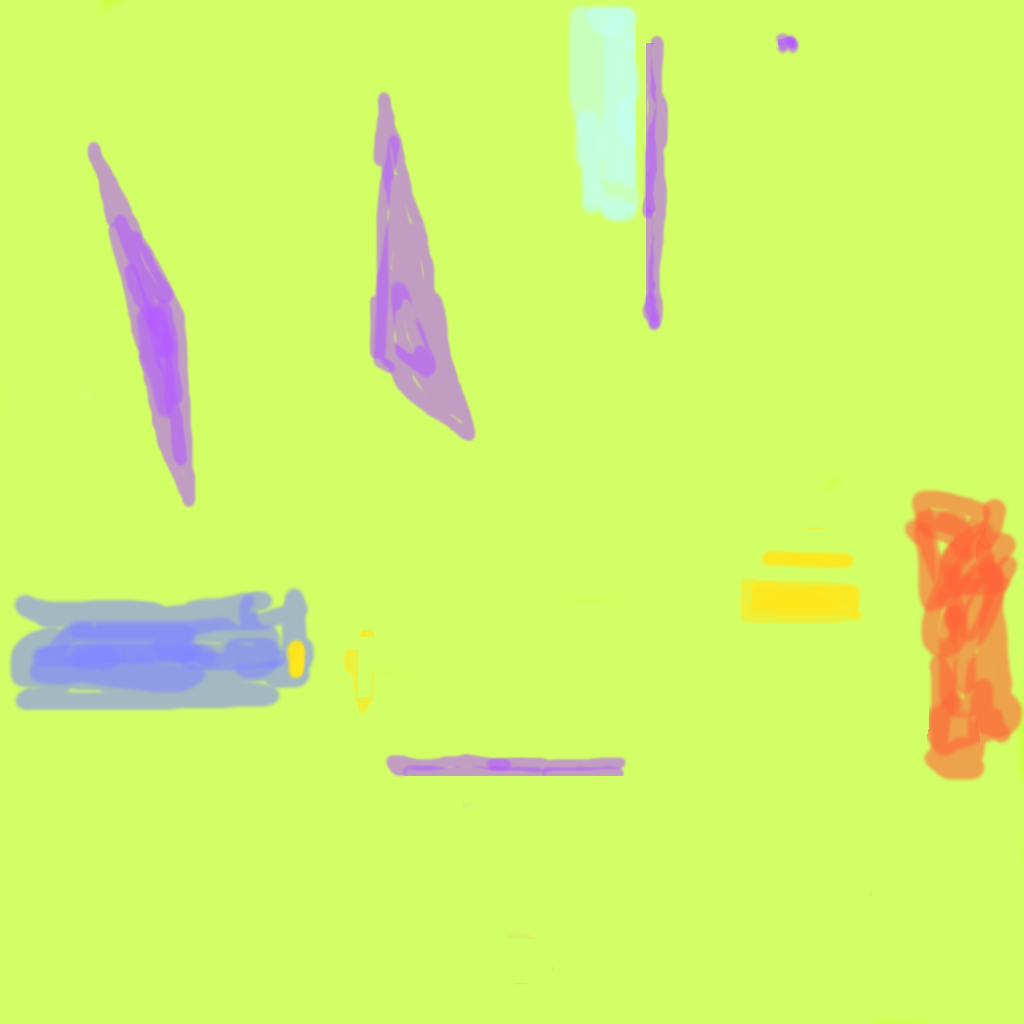
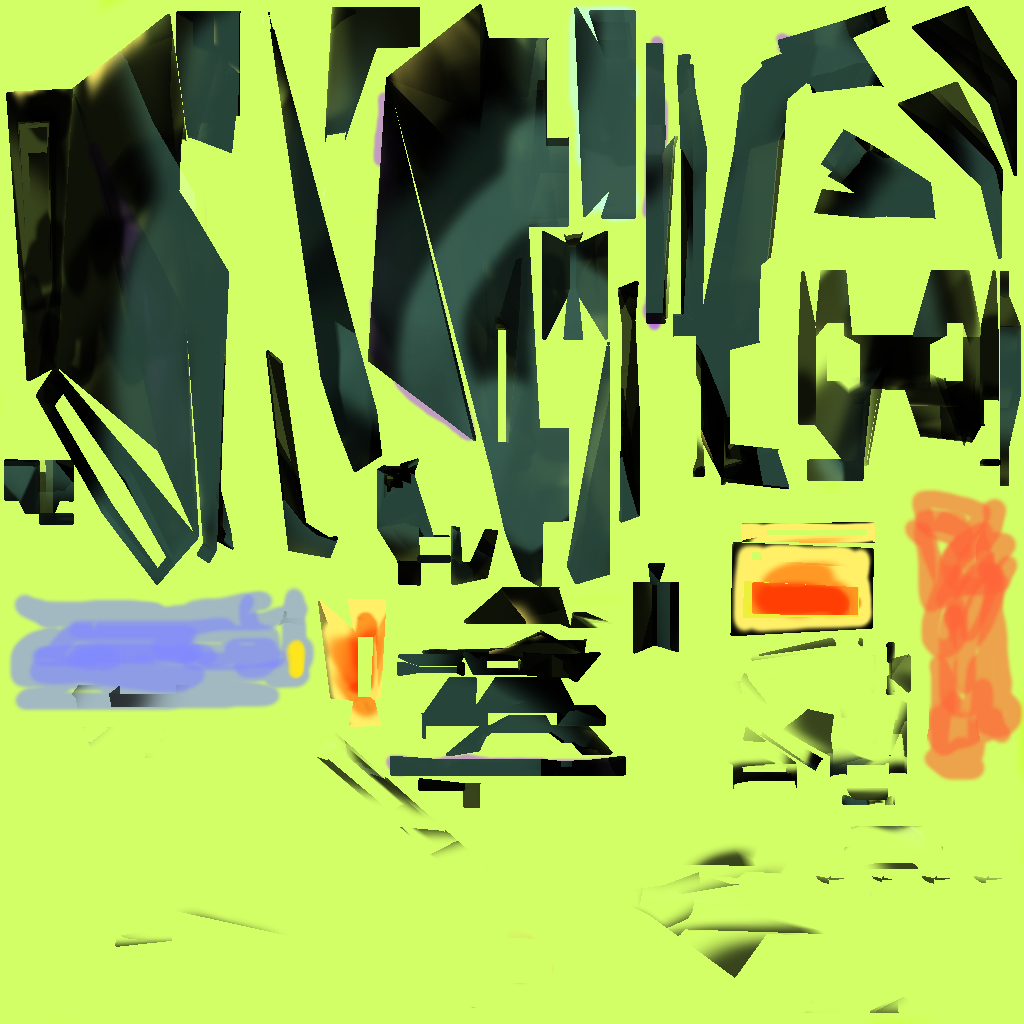
Dynamic orbit segments. Update to asteroid material files. Textured model rendering under way

diff --git a/Resources/ResourceManager.cpp b/Resources/ResourceManager.cpp
@@ -26,6 +26,8 @@ const bool ResourceManager::CreateAllBindables()
 		return false;
 	if (!m_VertexShaderOrbit.Create(m_pDevice, L"VertexShader_Orbit.hlsl"))
 		return false;
+	if (!m_VertexShaderTextured.Create(m_pDevice, L"VertexShader_Textured.hlsl"))
+		return false;
 	//Pixel Shaders:
 	if (!m_PixelShaderMinimal.Create(m_pDevice, L"PixelShader_Minimalistic.hlsl"))
 		return false;
@@ -34,6 +36,8 @@ const bool ResourceManager::CreateAllBindables()
 	if (!m_PixelShaderOrbit.Create(m_pDevice, L"PixelShader_Orbit.hlsl"))
 		return false;
 	if (!m_PixelShaderSun.Create(m_pDevice, L"PixelShader_Sun.hlsl"))
+		return false;
+	if (!m_PixelShaderTextured.Create(m_pDevice, L"PixelShader_Textured.hlsl"))
 		return false;
 	//Geometry Shaders:
 
@@ -48,6 +52,8 @@ const bool ResourceManager::CreateAllBindables()
 	if (!m_InputLayoutMinimal.Create(m_pDevice, m_VertexShaderMinimal, LAYOUT_MINIMAL))
 		return false;
 	if (!m_InputLayoutSinglePoint.Create(m_pDevice, m_VertexShaderSkybox, LAYOUT_SINGLEPOINT))
+		return false;
+	if (!m_InputLayoutPlayerModel.Create(m_pDevice, m_VertexShaderTextured, LAYOUT_PLAYER))
 		return false;
 	//Primitive topologies:
 	if (!m_TopologyTriList.Create(D3D11_PRIMITIVE_TOPOLOGY_TRIANGLELIST))
@@ -69,15 +75,20 @@ const bool ResourceManager::CreateAllBindables()
 	if (!m_IndexBufferCube.Create(m_pDevice, D3D11_USAGE::D3D11_USAGE_IMMUTABLE, 0u,
 								  static_cast<UINT>(m_CubeIndices.size() * sizeof(unsigned int)), sizeof(unsigned int), m_CubeIndices.data()))
 		return false;
-	//Arrange:
-	//Minimal:
+	// Arrange:
+	// Minimal:
 	m_BindablesMinimalistic.insert(m_BindablesMinimalistic.end(), { &m_VertexShaderMinimal, &m_PixelShaderMinimal, &m_InputLayoutMinimal, &m_TopologyTriList });
-	//Skybox:
+	// Skybox:
 	m_BindablesSkybox.insert(m_BindablesSkybox.end(), { &m_VertexShaderSkybox, &m_PixelShaderSkybox, &m_InputLayoutSinglePoint, 
 														&m_TopologyTriList, &m_CubeTextureSkybox, &m_SamplerSkybox,
 														&m_VertexBufferCube, &m_IndexBufferCube});
+	// Orbits
 	m_BindablesOrbit.insert(m_BindablesOrbit.end(), { &m_VertexShaderOrbit, &m_PixelShaderOrbit, &m_InputLayoutSinglePoint, &m_TopologyLineStrip });
+	// Sun
 	m_BindablesSun.insert(m_BindablesSun.end(), { &m_VertexShaderMinimal, &m_PixelShaderSun, &m_InputLayoutMinimal, &m_TopologyTriList });
+	//Textured models
+	m_BindablesTextured.insert(m_BindablesTextured.end(), { &m_VertexShaderTextured, &m_PixelShaderTextured, 
+															&m_InputLayoutPlayerModel, &m_TopologyTriList, & m_SamplerSkybox });
 	return true;
 }
 
@@ -194,7 +205,18 @@ void ResourceManager::BindToPipeline(IEvent& event)
 		}
 		break;
 	}
+	case BindID::ID_Textured:
+	{
+		for (auto bindables : m_BindablesTextured)
+		{
+			if (!bindables->IsBound())
+			{
+				bindables->Bind(m_pDeviceContext);
+			}
+		}
+		break;
 	}
+}
 }
 
 void ResourceManager::UpdateDXHandlers(IEvent& event) noexcept

diff --git a/ModelFactory.cpp b/ModelFactory.cpp
@@ -71,16 +71,16 @@ Model* ModelFactory::GetModel(std::string filePath)
 						vtx.texcoord.x = mesh->mTextureCoords[iMesh][i].x;
 						vtx.texcoord.y = mesh->mTextureCoords[iMesh][i].y;
 					}
-					vtx.normal.x = mesh->mVertices[i].x;	// temporary for
-					vtx.normal.y = 0.3f;//mesh->mVertices[i].y;	// vertex color
-					vtx.normal.z = mesh->mVertices[i].z;	// use section below.
+					//vtx.normal.x = mesh->mVertices[i].x;	// temporary for
+					//vtx.normal.y = 0.3f;//mesh->mVertices[i].y;	// vertex color
+					//vtx.normal.z = mesh->mVertices[i].z;	// use section below.
 
-					//if (mesh->HasNormals())
-					//{
-					//	vtx.normal.x = mesh->mNormals[i].x;
-					//	vtx.normal.y = mesh->mNormals[i].y;
-					//	vtx.normal.z = mesh->mNormals[i].z;
-					//}
+					if (mesh->HasNormals())
+					{
+						vtx.normal.x = mesh->mNormals[i].x;
+						vtx.normal.y = mesh->mNormals[i].y;
+						vtx.normal.z = mesh->mNormals[i].z;
+					}
 					if (mesh->HasTangentsAndBitangents())
 					{
 						vtx.tangent.x = mesh->mTangents[i].x;
@@ -91,6 +91,16 @@ Model* ModelFactory::GetModel(std::string filePath)
 						vtx.bitangent.z = mesh->mBitangents[i].z;
 					}
 					vertices.push_back(vtx);
+				}
+
+				aiString texFile;
+				if (scene->mMaterials[mesh->mMaterialIndex]->GetTextureCount(aiTextureType_DIFFUSE) > 0)
+				{
+					scene->mMaterials[mesh->mMaterialIndex]->GetTexture(aiTextureType_DIFFUSE, 0, &texFile);
+					ModelTexture* tex = new ModelTexture();
+					std::string texPath = std::string("models/") + std::string(texFile.C_Str());
+					tex->LoadTexture(m_device, CA2W(texPath.c_str()), 0);
+					model->AddTexture(tex, 0);
 				}
 
 				// Create bounding box
@@ -702,7 +712,7 @@ Model* ModelFactory::GenerateSun(float x, float y, float z, float r) {
 Model* ModelFactory::GenerateOrbit(float major_semi_axis, float minor_semi_axis)
 {
 	std::vector<DirectX::XMFLOAT3> vertices;
-	vertices.resize(60);
+	vertices.resize(static_cast<size_t>(major_semi_axis / 100));
 	std::vector<UINT> indices;
 	float segment = 2 * 3.14159265f / (vertices.size() - 1);
 	for (size_t i = 0; i < vertices.size(); ++i)

diff --git a/Scene.cpp b/Scene.cpp
@@ -81,7 +81,7 @@ bool Scene::init(unsigned int screenWidth, unsigned int screenHeight, Microsoft:
 	this->m_numPlanets = distributionPlanets(generator);
 	std::uniform_int_distribution<int> distributionRadius(100, 500);
 	//World space coordinates
-	std::uniform_int_distribution<int> distributionX(0, 90000);
+	std::uniform_int_distribution<int> distributionX(1000, 70000);
 	std::uniform_int_distribution<int> distributionY(0, 0);
 	std::uniform_int_distribution<int> distributionZ(0, 0);
 	//Needs to be radians
@@ -174,17 +174,23 @@ void Scene::Update() noexcept {
 	using t_clock = std::chrono::high_resolution_clock;
 	std::default_random_engine gen(static_cast<UINT>(t_clock::now().time_since_epoch().count()));
 	std::uniform_real_distribution<float> dist(200.0f, 900.0f);
+	std::uniform_real_distribution<float> adj(0.1f, 10.0f);
 
 	//Update the player and all the game objects.
 	size_t num = m_gameObjects.size() - m_persistentObjEnd;
 	if (m_player.update() &&  num < 30)
 	{
-		//Add an asteroid to the gameObject vector.
+		// Add an asteroid to the gameObject vector.
 		GameObject* ship = m_player.getShip();
-		DirectX::XMFLOAT3 pos = ship->GetCenter() + norm(ship->GetVelocity()) * 3000.0f;
+		DirectX::XMFLOAT3 velocity = norm(ship->GetVelocity());
+		// Start pos in front of spaceship, and randomise it slightly
+		DirectX::XMFLOAT3 pos = ship->GetCenter() + velocity * 3000.0f;
 		pos = pos + DirectX::XMFLOAT3(dist(gen), dist(gen), dist(gen));
+		// Give asteroid a random velocity in the general direction of spaceship
+		//velocity = velocity * DirectX::XMFLOAT3(-adj(gen), -adj(gen), -adj(gen));
+		velocity = DirectX::XMFLOAT3(0.0f, 0.0f, 0.0f);
 		Asteroid* ast = new Asteroid();
-		ast->init(pos, DirectX::XMFLOAT3(0.0f, .0f, 0.0f), ship);
+		ast->init(pos, velocity, ship);
 		m_gameObjects.push_back(ast);
 	}
 

diff --git a/ForwardRenderer.cpp b/ForwardRenderer.cpp
@@ -46,6 +46,8 @@ void ForwardRenderer::BeginFrame()
 		m_pDeviceContext->DrawIndexed((*m_pGameObjects)[i]->getIndexBufferSize(), 0u, 0u);
 	}
 
+	EventBuss::Get().Delegate(ubEvent);
+
 	//Bind orbit:
 	BindIDEvent bindEventOrbit(BindID::ID_Orbit);
 	EventBuss::Get().Delegate(bindEventOrbit);
@@ -56,19 +58,24 @@ void ForwardRenderer::BeginFrame()
 		m_pDeviceContext->DrawIndexed((*m_pGameObjects)[i]->getIndexBufferSize(), 0u, 0u);
 	}
 
+	EventBuss::Get().Delegate(ubEvent);
+
 	//Bind Sun:
 	BindIDEvent bindEventSun(BindID::ID_SUN);
 	EventBuss::Get().Delegate(bindEventSun);
 	//Sun:
-	for (size_t i = m_numPlanets * 2; i < (*m_pGameObjects).size() - 1; ++i) {
-		(*m_pGameObjects)[i]->bindUniques(m_pDeviceContext);
-		m_pDeviceContext->DrawIndexed((*m_pGameObjects)[i]->getIndexBufferSize(), 0u, 0u);
-	}
+	(*m_pGameObjects)[m_numPlanets * 2]->bindUniques(m_pDeviceContext);
+	m_pDeviceContext->DrawIndexed((*m_pGameObjects)[m_numPlanets * 2]->getIndexBufferSize(), 0u, 0u);
 
-	//Bind minimalistic:
-	EventBuss::Get().Delegate(bindEventMinimal);
+	EventBuss::Get().Delegate(ubEvent);
+	BindLightData();
+	BindCameraData();
+
+	//Bind Player:
+	BindIDEvent bindEventPlayer(BindID::ID_Player);
+	EventBuss::Get().Delegate(bindEventPlayer);
 	//Player:
-	for (size_t i = (*m_pGameObjects).size() - 1; i < (*m_pGameObjects).size(); ++i) {
+	for (size_t i = m_numPlanets * 2 + 1; i < (*m_pGameObjects).size(); ++i) {
 		(*m_pGameObjects)[i]->bindUniques(m_pDeviceContext);
 		m_pDeviceContext->DrawIndexed((*m_pGameObjects)[i]->getIndexBufferSize(), 0u, 0u);
 	}

diff --git a/Asteroid.cpp b/Asteroid.cpp
@@ -48,9 +48,9 @@ GameObject* Asteroid::update(DirectX::XMMATRIX VMatrix, DirectX::XMMATRIX PMatri
 {
 	float distance = length(m_center - m_ship->GetCenter());
 	if (distance > 20000) return this;
-	m_pitch += m_deltaPitch * m_timer.DeltaTime();
-	m_roll += m_deltaRoll * m_timer.DeltaTime();
-	m_yaw += m_deltaYaw * m_timer.DeltaTime();
+	m_pitch += static_cast<float>(m_deltaPitch * m_timer.DeltaTime());
+	m_roll += static_cast<float>(m_deltaRoll * m_timer.DeltaTime());
+	m_yaw += static_cast<float>(m_deltaYaw * m_timer.DeltaTime());
 	UpdatePhysics();
 	//Updated the same way as a cosmicbody, with S * R * T. Rotation is around the ships up vector.
 	DirectX::XMVECTOR up = DirectX::XMLoadFloat3(&m_upVector);
@@ -89,6 +89,10 @@ GameObject* Asteroid::update(DirectX::XMMATRIX VMatrix, DirectX::XMMATRIX PMatri
 
 void Asteroid::bindUniques(const Microsoft::WRL::ComPtr<ID3D11DeviceContext>& deviceContext)
 {
+	for (auto tex : m_model->GetTextures())
+	{
+		if (tex) tex->Bind(deviceContext);
+	}
 	deviceContext->IASetVertexBuffers(0u,
 		1u,
 		m_model->getVertexBuffer().GetAddressOf(),

diff --git a/ModelTexture.cpp b/ModelTexture.cpp
@@ -1,0 +1,30 @@
+#include "pch.h"
+#include "ModelTexture.h"
+
+void ModelTexture::LoadTexture(const Microsoft::WRL::ComPtr<ID3D11Device>& pDevice, const LPCWSTR& file, UINT type) noexcept
+{
+	Microsoft::WRL::ComPtr<ID3D11Texture2D> pTexture2D = nullptr;
+
+	DirectX::CreateWICTextureFromFile(pDevice.Get(), file, 
+					(ID3D11Resource**)(pTexture2D.ReleaseAndGetAddressOf()), &m_shaderResourceView);
+#if defined(DEBUG) | defined(_DEBUG)
+	assert(m_shaderResourceView);
+#endif
+}
+
+void ModelTexture::Bind(const Microsoft::WRL::ComPtr<ID3D11DeviceContext>& pDeviceContext)
+{
+#if defined(DEBUG) | defined(_DEBUG)
+	assert(pDeviceContext && m_shaderResourceView);
+#endif
+	pDeviceContext->PSSetShaderResources(m_Slot, 1u, m_shaderResourceView.GetAddressOf());
+}
+
+void ModelTexture::Unbind(const Microsoft::WRL::ComPtr<ID3D11DeviceContext>& pDeviceContext)
+{
+#if defined(DEBUG) | defined(_DEBUG)
+	assert(pDeviceContext);
+#endif
+	ID3D11ShaderResourceView* nullSRV[1] = { nullptr };
+	pDeviceContext->PSSetShaderResources(m_Slot, 1u, nullSRV);
+}

diff --git a/Resources/ResourceManager.h b/Resources/ResourceManager.h
@@ -24,10 +24,12 @@ private:
 	VertexShader m_VertexShaderSkybox;
 	VertexShader m_VertexShaderOrbit;
 	VertexShader m_VertexShaderSun;
+	VertexShader m_VertexShaderTextured;
 	PixelShader m_PixelShaderMinimal;
 	PixelShader m_PixelShaderSkybox;
 	PixelShader m_PixelShaderOrbit;
 	PixelShader m_PixelShaderSun;
+	PixelShader m_PixelShaderTextured;
 	ComputeShader m_ComputeShaderPlanet;
 	InputLayout m_InputLayoutCosmicBody;
 	InputLayout m_InputLayoutPlayerModel;
@@ -46,6 +48,7 @@ private:
 	std::vector<IBindable*> m_BindablesSkybox;
 	std::vector<IBindable*> m_BindablesOrbit;
 	std::vector<IBindable*> m_BindablesSun;
+	std::vector<IBindable*> m_BindablesTextured;
 	std::vector<DirectX::XMFLOAT3> m_CubeVertices;
 	std::vector<unsigned int> m_CubeIndices;
 	unsigned int m_ClientWindowWidth;

diff --git a/Model.h b/Model.h
@@ -1,5 +1,11 @@
 #pragma once
 #include "vertex.h"
+#include "ModelTexture.h"
+
+#define TEX_DIFFUSE = 0
+#define TEX_MAX = 1
+//#define TEX_NORMAL = 1
+
 class Model
 {
 private:
@@ -9,6 +15,7 @@ private:
 	Microsoft::WRL::ComPtr<ID3D11Buffer> m_vertexBuffer;
 	Microsoft::WRL::ComPtr<ID3D11Buffer> m_indexBuffer;
 	Microsoft::WRL::ComPtr<ID3D11Buffer> m_matrixBuffer;
+	std::vector<ModelTexture*> m_texture;
 	UINT m_vertexBufferSize;
 	UINT m_indexBufferSize;
 	DirectX::BoundingBox* m_boundingBox;
@@ -37,4 +44,6 @@ public:
 	void SetBoundingVolume(DirectX::BoundingSphere* sphere);
 	DirectX::BoundingBox* GetBoundingBox();
 	DirectX::BoundingSphere* GetBoundingSphere();
+	std::vector<ModelTexture*>& GetTextures();
+	void AddTexture(ModelTexture* tex, UINT type);
 };

diff --git a/Model.cpp b/Model.cpp
@@ -6,7 +6,10 @@ Model::Model()
 	m_indexBufferSize{ 0 }, m_vertexBufferSize{ 0 },
 	m_boundingBox{ nullptr }, m_boundingSphere{ nullptr }
 {
-	
+	for (size_t i = 0; i < 1; ++i)
+	{
+		m_texture.push_back(nullptr);
+	}
 }
 
 Model::~Model()
@@ -20,6 +23,10 @@ Model::~Model()
 	{
 		delete m_boundingSphere;
 		m_boundingSphere = nullptr;
+	}
+	for (auto t : m_texture)
+	{
+		if (t) delete t;
 	}
 }
 
@@ -97,3 +104,12 @@ DirectX::BoundingSphere* Model::GetBoundingSphere()
 	return m_boundingSphere;
 }
 
+std::vector<ModelTexture*>& Model::GetTextures()
+{
+	return m_texture;
+}
+
+void Model::AddTexture(ModelTexture* tex, UINT type)
+{
+	m_texture[type] = tex;
+}

diff --git a/ModelTexture.h b/ModelTexture.h
@@ -1,0 +1,16 @@
+#pragma once
+#include <DirectXTK/WICTextureLoader.h>
+#include "Resources/IBindable.h"
+
+class ModelTexture : public IBindable
+{
+private:
+	Microsoft::WRL::ComPtr<ID3D11ShaderResourceView> m_shaderResourceView;
+	UINT m_Slot;
+public:
+	ModelTexture() = default;
+	~ModelTexture() = default;
+	void Bind(const Microsoft::WRL::ComPtr<ID3D11DeviceContext>& pDeviceContext) override;
+	void Unbind(const Microsoft::WRL::ComPtr<ID3D11DeviceContext>& pDeviceContext) override;
+	void LoadTexture(const Microsoft::WRL::ComPtr<ID3D11Device>& pDevice, const LPCWSTR& file, UINT type) noexcept;
+};

diff --git a/SpaceShip.cpp b/SpaceShip.cpp
@@ -122,6 +122,10 @@ DirectX::XMFLOAT3 SpaceShip::getCenter() {
 
 void SpaceShip::bindUniques(const Microsoft::WRL::ComPtr<ID3D11DeviceContext>& deviceContext)
 {
+	for (auto tex : m_model->GetTextures())
+	{
+		if (tex) tex->Bind(deviceContext);
+	}
 	deviceContext->IASetVertexBuffers(0u,
 									  1u,
 									  this->m_model->getVertexBuffer().GetAddressOf(),

diff --git a/ourMath.h b/ourMath.h
@@ -14,6 +14,8 @@ DirectX::XMFLOAT3 operator+(const DirectX::XMFLOAT3& a, const DirectX::XMFLOAT3&
 
 DirectX::XMFLOAT3 operator*(const DirectX::XMFLOAT3& a, const float& b);
 
+DirectX::XMFLOAT3 operator*(const DirectX::XMFLOAT3& a, const DirectX::XMFLOAT3& b);
+
 float length(const DirectX::XMFLOAT3& a);
 
 DirectX::XMFLOAT3 norm(const DirectX::XMFLOAT3& a);
